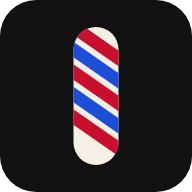
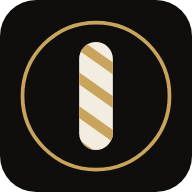
Estilo Don Filo en toda la app: tema oscuro con latón
Tema oscuro fijo (negro, crema y latón) igual que la página web, títulos en
Oswald, monograma "B" como marca, íconos de línea en el menú en lugar de
emojis, pantallas de acceso con fondo de barbería e ícono nuevo.

Claude-Session: https://claude.ai/code/session_01BoxR4A8WXusGQL2JRg7Smb

Changed region(s): [[0.0938, 0.0938, 0.9062, 0.9062]]

diff --git a/src/estilos.css b/src/estilos.css
@@ -1,36 +1,26 @@
-/* BarberaGo: estilos. Paleta de barbería clásica: negro, crema, rojo y azul del poste. */
+/* BarberaGo: estilos. Tema oscuro fijo de barbería clásica (igual que la página Don Filo): negro, crema y latón. */
 :root {
-  --fondo: #f6f3ee;
-  --superficie: #ffffff;
-  --superficie-2: #f0ebe3;
-  --borde: #e2dbd0;
-  --texto: #1b1a18;
-  --texto-2: #6b665e;
-  --primario: #c8102e;
-  --primario-texto: #ffffff;
-  --azul: #1d4ed8;
-  --ok: #047857;
-  --alerta: #b45309;
-  --peligro: #b91c1c;
-  --lateral: #111111;
-  --lateral-texto: #f5efe6;
-  --sombra: 0 1px 2px rgba(0, 0, 0, .06), 0 4px 16px rgba(0, 0, 0, .06);
-  --radio: 12px;
-  color-scheme: light;
-}
-@media (prefers-color-scheme: dark) {
-  :root {
-    --fondo: #121110;
-    --superficie: #1c1b19;
-    --superficie-2: #262421;
-    --borde: #34312d;
-    --texto: #f3efe8;
-    --texto-2: #a49e94;
-    --primario: #e5383b;
-    --lateral: #0a0a0a;
-    --sombra: none;
-    color-scheme: dark;
-  }
+  --fondo: #0f0e0c;
+  --superficie: #1a1815;
+  --superficie-2: #24211d;
+  --borde: #35302a;
+  --texto: #f3ece0;
+  --texto-2: #a89f91;
+  --primario: #c9a45c;
+  --primario-texto: #16130f;
+  --oro: #c9a45c;
+  --oro-claro: #e3c78c;
+  --azul: #8fb4e8;
+  --ok: #4ade80;
+  --alerta: #f0b357;
+  --peligro: #f87171;
+  --lateral: #0a0908;
+  --lateral-texto: #f3ece0;
+  --sombra: none;
+  --radio: 6px;
+  --display: 'Oswald', 'Arial Narrow', system-ui, sans-serif;
+  --serif: 'Playfair Display', Georgia, serif;
+  color-scheme: dark;
 }
 
 * { box-sizing: border-box; }
@@ -46,7 +36,7 @@ body {
 h1 { font-size: 1.45rem; margin: 0; }
 h2 { font-size: 1.05rem; margin: 0 0 .75rem; }
 h3 { font-size: .95rem; margin: 1rem 0 .5rem; }
-a { color: var(--primario); }
+a { color: var(--oro-claro); }
 input, select, textarea, button { font: inherit; color: inherit; }
 input, select, textarea {
   width: 100%;
@@ -57,7 +47,7 @@ input, select, textarea {
   min-height: 42px;
 }
 input[type='checkbox'] { width: auto; min-height: 0; accent-color: var(--primario); }
-input:focus, select:focus, textarea:focus, button:focus-visible { outline: 2px solid var(--azul); outline-offset: 1px; }
+input:focus, select:focus, textarea:focus, button:focus-visible { outline: 2px solid var(--oro); outline-offset: 1px; }
 
 .tenue { color: var(--texto-2); }
 .pequeno { font-size: .85rem; }
@@ -99,14 +89,14 @@ input:focus, select:focus, textarea:focus, button:focus-visible { outline: 2px s
 .marca.grande { font-size: 1.5rem; justify-content: center; margin-bottom: .5rem; }
 .lateral .marca { padding: .25rem .5rem 1rem; }
 .nombre-negocio { padding: .25rem .5rem .75rem; opacity: .75; font-size: .9rem; }
-.selector-negocio { background: #1f1f1f; color: var(--lateral-texto); border-color: #333; margin-bottom: .75rem; }
+.selector-negocio { background: var(--superficie); color: var(--lateral-texto); border-color: var(--borde); margin-bottom: .75rem; }
 .lateral nav { display: flex; flex-direction: column; gap: 2px; flex: 1; overflow-y: auto; }
 .lateral nav a {
   color: var(--lateral-texto); text-decoration: none; padding: .6rem .75rem; border-radius: 8px; opacity: .8;
   display: flex; gap: .6rem; align-items: center;
 }
-.lateral nav a:hover { background: #1f1f1f; opacity: 1; }
-.lateral nav a.activo { background: #262626; opacity: 1; box-shadow: inset 3px 0 0 var(--primario); }
+.lateral nav a:hover { background: var(--superficie); opacity: 1; }
+.lateral nav a.activo { background: var(--superficie); opacity: 1; color: var(--oro-claro); box-shadow: inset 2px 0 0 var(--oro); }
 .lateral .salir { color: var(--lateral-texto); opacity: .6; padding: .5rem .75rem; }
 .contenido { flex: 1; min-width: 0; }
 .barra-movil, .nav-movil, .solo-movil, .chips.solo-movil { display: none; }
@@ -179,7 +169,7 @@ input:focus, select:focus, textarea:focus, button:focus-visible { outline: 2px s
   display: inline-flex; align-items: center; gap: .4rem; padding: .4rem .8rem; border-radius: 999px;
   border: 1px solid var(--borde); background: var(--superficie); cursor: pointer; min-height: 36px;
 }
-.chip-activo { background: var(--texto); color: var(--fondo); border-color: var(--texto); }
+.chip-activo { background: var(--oro); color: var(--primario-texto); border-color: var(--oro); }
 .punto { width: 10px; height: 10px; border-radius: 50%; display: inline-block; flex-shrink: 0; }
 .insignia {
   display: inline-block; padding: .1rem .55rem; border-radius: 999px; font-size: .78rem; font-weight: 600;
@@ -242,7 +232,7 @@ input:focus, select:focus, textarea:focus, button:focus-visible { outline: 2px s
 .fila-espera { margin-bottom: 1rem; }
 .fila-espera ul { list-style: none; margin: 0; padding: 0; display: flex; flex-direction: column; gap: .5rem; }
 .fila-espera li { display: flex; gap: .75rem; align-items: center; }
-.turno { width: 28px; height: 28px; border-radius: 50%; background: var(--alerta); color: #fff; display: grid; place-items: center; font-weight: 700; font-size: .85rem; }
+.turno { width: 28px; height: 28px; border-radius: 50%; background: var(--oro); color: var(--primario-texto); display: grid; place-items: center; font-weight: 700; font-size: .85rem; }
 .rejilla { background: var(--superficie); border: 1px solid var(--borde); border-radius: var(--radio); overflow: auto; max-height: calc(100vh - 170px); }
 .rejilla-cabeza, .rejilla-cuerpo { display: grid; grid-template-columns: 56px repeat(var(--columnas), minmax(150px, 1fr)); }
 .rejilla-cabeza { position: sticky; top: 0; z-index: 3; background: var(--superficie); border-bottom: 1px solid var(--borde); }
@@ -302,7 +292,7 @@ input:focus, select:focus, textarea:focus, button:focus-visible { outline: 2px s
 .publica-cabeza { display: flex; gap: .9rem; align-items: center; margin-bottom: 1.25rem; }
 .publica-cabeza img { border-radius: 12px; object-fit: cover; }
 .paso { margin-top: 1.5rem; }
-.num-paso { display: inline-grid; place-items: center; width: 24px; height: 24px; border-radius: 50%; background: var(--texto); color: var(--fondo); font-size: .8rem; margin-right: .35rem; }
+.num-paso { display: inline-grid; place-items: center; width: 24px; height: 24px; border-radius: 50%; background: var(--oro); color: var(--primario-texto); font-size: .8rem; margin-right: .35rem; }
 .opciones { display: flex; flex-direction: column; gap: .5rem; }
 .opcion {
   display: flex; align-items: center; gap: .75rem; width: 100%; text-align: left; padding: .9rem 1rem; cursor: pointer;
@@ -325,7 +315,7 @@ input:focus, select:focus, textarea:focus, button:focus-visible { outline: 2px s
 .hora.ocupada { cursor: not-allowed; text-decoration: line-through; opacity: 1; }
 .leyenda-horas { display: flex; align-items: center; gap: .4rem; margin-top: .5rem; }
 .muestra-ocupada { display: inline-block; width: 14px; height: 14px; border: 1px solid; border-radius: 4px; }
-.palomita { width: 64px; height: 64px; border-radius: 50%; background: var(--ok); color: #fff; font-size: 2rem; display: grid; place-items: center; margin: 0 auto; }
+.palomita { width: 64px; height: 64px; border-radius: 50%; background: var(--oro); color: var(--primario-texto); font-size: 2rem; display: grid; place-items: center; margin: 0 auto; }
 .grande-texto { font-size: 1.3rem; font-weight: 700; }
 .publica-pie { margin-top: 2.5rem; text-align: center; }
 
@@ -336,7 +326,7 @@ input:focus, select:focus, textarea:focus, button:focus-visible { outline: 2px s
     display: flex; align-items: center; gap: .6rem; padding: .6rem 1rem; padding-top: max(.6rem, env(safe-area-inset-top));
     background: var(--lateral); color: var(--lateral-texto); position: sticky; top: 0; z-index: 10;
   }
-  .barra-movil select { background: #1f1f1f; color: var(--lateral-texto); border-color: #333; min-height: 36px; padding: .3rem .5rem; }
+  .barra-movil select { background: var(--superficie); color: var(--lateral-texto); border-color: var(--borde); min-height: 36px; padding: .3rem .5rem; }
   .nav-movil {
     display: flex; position: fixed; bottom: 0; left: 0; right: 0; z-index: 20;
     background: var(--superficie); border-top: 1px solid var(--borde); padding-bottom: env(safe-area-inset-bottom);
@@ -364,6 +354,7 @@ input:focus, select:focus, textarea:focus, button:focus-visible { outline: 2px s
 @media print {
   .lateral, .barra-movil, .nav-movil, .no-imprimir, .banda { display: none !important; }
   .tarjeta { box-shadow: none; border: 0; }
+  :root { --fondo: #fff; --superficie: #fff; --superficie-2: #f3f3f3; --borde: #ddd; --texto: #000; --texto-2: #555; --oro-claro: #000; color-scheme: light; }
   body { background: #fff; color: #000; }
 }
 
@@ -414,3 +405,65 @@ input:focus, select:focus, textarea:focus, button:focus-visible { outline: 2px s
 .galeria-editor-agregar { aspect-ratio: 1; border-radius: 8px; border: 1px dashed var(--borde); background: var(--superficie-2); cursor: pointer; font-size: .85rem; }
 .mini-foto { width: 32px; height: 32px; border-radius: 6px; object-fit: cover; vertical-align: middle; margin-right: .5rem; }
 img.avatar { object-fit: cover; }
+
+/* Estilo Don Filo: tipografía, botones y estructura */
+h1, h2, .titulo-dia, .modal-cabeza h2, .numero-pedido, .grande-texto { font-family: var(--display); font-weight: 500; letter-spacing: .03em; }
+h1 { font-size: 1.7rem; text-transform: uppercase; letter-spacing: .05em; }
+h2 { font-size: 1.15rem; }
+.tarjeta > h2:first-child, .formulario > h2:first-child { color: var(--oro-claro); }
+.kicker { font-family: var(--serif); font-style: italic; color: var(--oro); margin: 0 0 .2rem; display: flex; align-items: center; gap: .6rem; font-size: 1rem; }
+.kicker::before { content: ''; width: 24px; height: 1px; background: var(--oro); }
+.btn { border-radius: 3px; font-family: var(--display); font-weight: 500; letter-spacing: .1em; text-transform: uppercase; font-size: .88rem; transition: background .2s, border-color .2s, color .2s; }
+.btn:hover { border-color: var(--oro); color: var(--oro-claro); background: transparent; }
+.btn-primario:hover { background: var(--oro-claro); border-color: var(--oro-claro); color: var(--primario-texto); filter: none; }
+.btn-peligro:hover { color: var(--peligro); border-color: var(--peligro); }
+.btn.grande { font-size: 1rem; }
+.btn-texto { color: var(--oro-claro); }
+.btn-icono:hover { color: var(--oro-claro); }
+input, select, textarea { background: var(--fondo); border-radius: 4px; }
+.campo > span { font-weight: 500; letter-spacing: .02em; }
+.tarjeta { border-radius: var(--radio); }
+.kpi { border-top: 2px solid var(--oro); }
+.kpi span { text-transform: uppercase; letter-spacing: .08em; font-size: .72rem; }
+.kpi strong { font-family: var(--display); font-weight: 500; font-size: 1.6rem; color: var(--oro-claro); }
+.tabla th { text-transform: uppercase; letter-spacing: .08em; font-size: .72rem; }
+.tabla tr.total td { border-top-color: var(--oro); }
+.segmentado button.activo { background: var(--oro); color: var(--primario-texto); }
+.modal { border: 1px solid var(--borde); border-radius: 8px; }
+.modal-fondo { background: rgba(0, 0, 0, .7); backdrop-filter: blur(3px); }
+.boton-item:hover { background: var(--superficie); }
+.boton-item strong { color: var(--texto); }
+.insignia { letter-spacing: .03em; }
+.vacio { border-color: color-mix(in srgb, var(--oro) 35%, var(--borde)); }
+
+/* Marca: monograma latón */
+.monograma {
+  display: inline-grid; place-items: center; border-radius: 50%; border: 1px solid var(--oro); color: var(--oro);
+  font-family: var(--serif); font-style: italic; flex: none; width: 34px; height: 34px; font-size: 1.05rem;
+}
+.marca { font-family: var(--display); font-weight: 500; text-transform: uppercase; letter-spacing: .1em; }
+.marca.grande .monograma { width: 56px; height: 56px; font-size: 1.7rem; }
+.marca.grande { flex-direction: column; gap: .6rem; font-size: 1.6rem; }
+.lateral { border-right: 1px solid var(--borde); }
+.nombre-negocio { font-family: var(--serif); font-style: italic; color: var(--oro); opacity: 1; font-size: 1rem; }
+.lateral nav a { letter-spacing: .04em; }
+.lateral nav a .icono { width: 18px; height: 18px; flex: none; opacity: .85; }
+.lateral nav a.activo .icono { color: var(--oro); opacity: 1; }
+.nav-movil { background: var(--lateral); }
+.nav-movil a .icono { width: 22px; height: 22px; margin-bottom: 2px; }
+.nav-movil a small { letter-spacing: .04em; }
+.fila-enlace .icono { width: 20px; height: 20px; color: var(--oro); flex: none; }
+.barra-movil { border-bottom: 1px solid var(--borde); }
+.barra-movil strong { font-family: var(--display); font-weight: 500; letter-spacing: .08em; text-transform: uppercase; }
+
+/* Pantallas de acceso con fondo de barbería */
+.pantalla-centro:not(.sitio) {
+  background:
+    radial-gradient(ellipse at top, rgba(201, 164, 92, .12), transparent 60%),
+    repeating-linear-gradient(135deg, rgba(255, 255, 255, .015) 0 2px, transparent 2px 14px),
+    var(--fondo);
+}
+.acceso { padding: 2rem 1.75rem; border-top: 2px solid var(--oro); }
+.acceso > .tenue { text-align: center; font-family: var(--serif); font-style: italic; }
+.lista-mas .fila-enlace { background: var(--superficie); border: 1px solid var(--borde); }
+.lista-mas .fila-enlace:hover { border-color: var(--oro); }

diff --git a/src/components/Layout.tsx b/src/components/Layout.tsx
@@ -2,18 +2,19 @@ import { NavLink, Outlet } from 'react-router-dom';
 import { useNegocio } from '../lib/sesion';
 import type { Permiso } from '../lib/tipos';
 import { fechaCorta } from '../lib/formato';
+import { Icono, Marca } from './Iconos';
 
 const MENU: { a: string; nombre: string; icono: string; permiso: Permiso; movil?: boolean }[] = [
-  { a: '/agenda', nombre: 'Agenda', icono: '📅', permiso: 'agenda', movil: true },
-  { a: '/cobrar', nombre: 'Cobrar', icono: '💵', permiso: 'cobrar', movil: true },
-  { a: '/pedidos', nombre: 'Pedidos', icono: '🛍', permiso: 'cobrar' },
-  { a: '/clientes', nombre: 'Clientes', icono: '👥', permiso: 'clientes', movil: true },
-  { a: '/ventas', nombre: 'Ventas', icono: '🧾', permiso: 'caja' },
-  { a: '/reportes', nombre: 'Reportes', icono: '📊', permiso: 'reportes', movil: true },
-  { a: '/servicios', nombre: 'Servicios', icono: '✂', permiso: 'catalogo' },
-  { a: '/productos', nombre: 'Productos', icono: '🧴', permiso: 'inventario' },
-  { a: '/equipo', nombre: 'Equipo', icono: '💈', permiso: 'equipo' },
-  { a: '/ajustes', nombre: 'Ajustes', icono: '⚙', permiso: 'ajustes' },
+  { a: '/agenda', nombre: 'Agenda', icono: 'agenda', permiso: 'agenda', movil: true },
+  { a: '/cobrar', nombre: 'Cobrar', icono: 'cobrar', permiso: 'cobrar', movil: true },
+  { a: '/pedidos', nombre: 'Pedidos', icono: 'pedidos', permiso: 'cobrar' },
+  { a: '/clientes', nombre: 'Clientes', icono: 'clientes', permiso: 'clientes', movil: true },
+  { a: '/ventas', nombre: 'Ventas', icono: 'ventas', permiso: 'caja' },
+  { a: '/reportes', nombre: 'Reportes', icono: 'reportes', permiso: 'reportes', movil: true },
+  { a: '/servicios', nombre: 'Servicios', icono: 'servicios', permiso: 'catalogo' },
+  { a: '/productos', nombre: 'Productos', icono: 'productos', permiso: 'inventario' },
+  { a: '/equipo', nombre: 'Equipo', icono: 'equipo', permiso: 'equipo' },
+  { a: '/ajustes', nombre: 'Ajustes', icono: 'ajustes', permiso: 'ajustes' },
 ];
 
 export default function Layout() {
@@ -27,10 +28,7 @@ export default function Layout() {
   return (
     <div className="app">
       <aside className="lateral">
-        <div className="marca">
-          <img src="/icon.svg" alt="" width={32} height={32} />
-          <span>BarberaGo</span>
-        </div>
+        <Marca />
         {negocios.length > 1 ? (
           <select className="selector-negocio" value={negocio.id} onChange={(e) => elegirNegocio(e.target.value)} aria-label="Barbería">
             {negocios.map((n) => <option key={n.id} value={n.id}>{n.nombre}</option>)}
@@ -41,7 +39,7 @@ export default function Layout() {
         <nav>
           {menu.map((m) => (
             <NavLink key={m.a} to={m.a} className={({ isActive }) => (isActive ? 'activo' : '')}>
-              <span aria-hidden>{m.icono}</span> {m.nombre}
+              <Icono nombre={m.icono} /> {m.nombre}
             </NavLink>
           ))}
         </nav>
@@ -50,7 +48,7 @@ export default function Layout() {
 
       <main className="contenido">
         <div className="barra-movil">
-          <img src="/icon.svg" alt="" width={26} height={26} />
+          <span className="monograma" aria-hidden>B</span>
           {negocios.length > 1 ? (
             <select value={negocio.id} onChange={(e) => elegirNegocio(e.target.value)} aria-label="Barbería">
               {negocios.map((n) => <option key={n.id} value={n.id}>{n.nombre}</option>)}
@@ -65,12 +63,12 @@ export default function Layout() {
       <nav className="nav-movil">
         {movil.map((m) => (
           <NavLink key={m.a} to={m.a} className={({ isActive }) => (isActive ? 'activo' : '')}>
-            <span aria-hidden>{m.icono}</span>
+            <Icono nombre={m.icono} />
             <small>{m.nombre}</small>
           </NavLink>
         ))}
         <NavLink to="/mas" className={({ isActive }) => (isActive ? 'activo' : '')}>
-          <span aria-hidden>☰</span>
+          <Icono nombre="mas" />
           <small>Más</small>
         </NavLink>
       </nav>
@@ -83,14 +81,15 @@ export function Mas() {
   const { puede, salir, negocio } = useNegocio();
   return (
     <div className="pagina">
+      <p className="kicker">Menú</p>
       <h1>{negocio.nombre}</h1>
       <div className="lista-mas">
         {MENU.filter((m) => puede(m.permiso)).map((m) => (
           <NavLink key={m.a} to={m.a} className="tarjeta fila-enlace">
-            <span aria-hidden>{m.icono}</span> {m.nombre}
+            <Icono nombre={m.icono} /> {m.nombre}
           </NavLink>
         ))}
-        <button className="tarjeta fila-enlace" onClick={salir}>↩ Cerrar sesión</button>
+        <button className="tarjeta fila-enlace" onClick={salir}><Icono nombre="salir" /> Cerrar sesión</button>
       </div>
     </div>
   );

diff --git a/src/components/Iconos.tsx b/src/components/Iconos.tsx
@@ -1,0 +1,33 @@
+/** Íconos de línea para el menú (mismo trazo fino que la página web). */
+const TRAZOS: Record<string, string> = {
+  agenda: 'M8 2v4M16 2v4M3 10h18M5 4h14a2 2 0 0 1 2 2v14a2 2 0 0 1-2 2H5a2 2 0 0 1-2-2V6a2 2 0 0 1 2-2z',
+  cobrar: 'M2 7h20v10H2zM12 15a3 3 0 1 0 0-6 3 3 0 0 0 0 6zM6 12h.01M18 12h.01',
+  pedidos: 'M6 2 3 6v14a2 2 0 0 0 2 2h14a2 2 0 0 0 2-2V6l-3-4zM3 6h18M16 10a4 4 0 0 1-8 0',
+  clientes: 'M16 21v-2a4 4 0 0 0-4-4H6a4 4 0 0 0-4 4v2M9 11a4 4 0 1 0 0-8 4 4 0 0 0 0 8zM22 21v-2a4 4 0 0 0-3-3.87M16 3.13a4 4 0 0 1 0 7.75',
+  ventas: 'M4 2v20l3-2 3 2 3-2 3 2 3-2 1 .7V2l-1 .7-3-2-3 2-3-2-3 2-3-2zM8 8h8M8 12h8M8 16h5',
+  reportes: 'M3 3v18h18M7 16v-4M12 16V8M17 16v-7',
+  servicios: 'M6 9a3 3 0 1 0 0-6 3 3 0 0 0 0 6zM6 21a3 3 0 1 0 0-6 3 3 0 0 0 0 6zM20 4 8.12 15.88M14.47 14.48 20 20M8.12 8.12 12 12',
+  productos: 'M9 2h6v3H9zM8 5h8l1 4v11a2 2 0 0 1-2 2H9a2 2 0 0 1-2-2V9zM7 12h10',
+  equipo: 'M9 2h6M10 2v2h4V2M8 4h8v16a2 2 0 0 1-2 2h-4a2 2 0 0 1-2-2zM8 8l8 3M8 13l8 3',
+  ajustes: 'M12 15a3 3 0 1 0 0-6 3 3 0 0 0 0 6zM19.4 15a1.65 1.65 0 0 0 .33 1.82l.06.06a2 2 0 1 1-2.83 2.83l-.06-.06a1.65 1.65 0 0 0-1.82-.33 1.65 1.65 0 0 0-1 1.51V21a2 2 0 1 1-4 0v-.09A1.65 1.65 0 0 0 9 19.4a1.65 1.65 0 0 0-1.82.33l-.06.06a2 2 0 1 1-2.83-2.83l.06-.06A1.65 1.65 0 0 0 4.68 15a1.65 1.65 0 0 0-1.51-1H3a2 2 0 1 1 0-4h.09A1.65 1.65 0 0 0 4.6 9a1.65 1.65 0 0 0-.33-1.82l-.06-.06a2 2 0 1 1 2.83-2.83l.06.06A1.65 1.65 0 0 0 9 4.68 1.65 1.65 0 0 0 10 3.17V3a2 2 0 1 1 4 0v.09a1.65 1.65 0 0 0 1 1.51 1.65 1.65 0 0 0 1.82-.33l.06-.06a2 2 0 1 1 2.83 2.83l-.06.06A1.65 1.65 0 0 0 19.4 9a1.65 1.65 0 0 0 1.51 1H21a2 2 0 1 1 0 4h-.09a1.65 1.65 0 0 0-1.51 1z',
+  mas: 'M4 6h16M4 12h16M4 18h16',
+  salir: 'M9 21H5a2 2 0 0 1-2-2V5a2 2 0 0 1 2-2h4M16 17l5-5-5-5M21 12H9',
+};
+
+export function Icono({ nombre }: { nombre: string }) {
+  return (
+    <svg className="icono" viewBox="0 0 24 24" fill="none" stroke="currentColor" strokeWidth={1.6} strokeLinecap="round" strokeLinejoin="round" aria-hidden>
+      <path d={TRAZOS[nombre]} />
+    </svg>
+  );
+}
+
+/** Logo de BarberaGo: monograma "B" en círculo latón y nombre. */
+export function Marca({ grande }: { grande?: boolean }) {
+  return (
+    <div className={grande ? 'marca grande' : 'marca'}>
+      <span className="monograma" aria-hidden>B</span>
+      <span>BarberaGo</span>
+    </div>
+  );
+}

diff --git a/src/pages/Bienvenida.tsx b/src/pages/Bienvenida.tsx
@@ -2,6 +2,7 @@ import { useState, type FormEvent } from 'react';
 import { useNavigate } from 'react-router-dom';
 import { supabase, mensajeError } from '../lib/supabase';
 import { useSesion } from '../lib/sesion';
+import { Marca } from '../components/Iconos';
 import { Aviso, Campo } from '../components/ui';
 import { fechaCorta } from '../lib/formato';
 
@@ -41,10 +42,7 @@ export default function Bienvenida() {
     <div className={dentro ? 'pagina angosta' : 'pantalla-centro'}>
       <div className="tarjeta acceso">
         {!dentro && (
-          <div className="marca grande">
-            <img src="/icon.svg" alt="" width={44} height={44} />
-            <span>BarberaGo</span>
-          </div>
+          <Marca grande />
         )}
         <h2>{dentro ? 'Agregar otra barbería' : 'Crea tu barbería'}</h2>
         <p className="tenue">

diff --git a/src/pages/Entrar.tsx b/src/pages/Entrar.tsx
@@ -1,5 +1,6 @@
 import { useState, type FormEvent } from 'react';
 import { supabase, mensajeError } from '../lib/supabase';
+import { Marca } from '../components/Iconos';
 import { Aviso, Campo } from '../components/ui';
 
 type Modo = 'entrar' | 'registro' | 'recuperar';
@@ -42,10 +43,7 @@ export default function Entrar() {
   return (
     <div className="pantalla-centro">
       <form className="tarjeta acceso" onSubmit={enviar}>
-        <div className="marca grande">
-          <img src="/icon.svg" alt="" width={44} height={44} />
-          <span>BarberaGo</span>
-        </div>
+        <Marca grande />
         <p className="tenue">Agenda, reservas en línea, cobro y comisiones para tu barbería.</p>
         {modo === 'registro' && (
           <Campo etiqueta="Tu nombre">

diff --git a/index.html b/index.html
@@ -3,7 +3,7 @@
   <head>
     <meta charset="UTF-8" />
     <meta name="viewport" content="width=device-width, initial-scale=1, viewport-fit=cover" />
-    <meta name="theme-color" content="#111111" />
+    <meta name="theme-color" content="#0f0e0c" />
     <meta name="description" content="BarberaGo: agenda, reservas en línea, cobro y comisiones para barberías." />
     <link rel="icon" href="/icon.svg" type="image/svg+xml" />
     <link rel="apple-touch-icon" href="/icon-192.png" />
